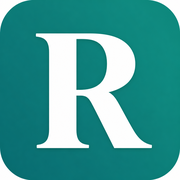
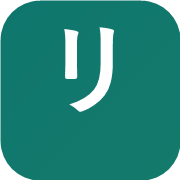
Change the Recall mark from R to katakana ri.

Changed region(s): [[0.1944, 0.1389, 0.8611, 0.8333], [0.0, 0.0, 1.0, 1.0], [0.8333, 0.8333, 1.0, 1.0]]

diff --git a/index.html b/index.html
@@ -8,15 +8,16 @@
   <meta name="apple-mobile-web-app-title" content="Recall" />
   <meta name="apple-mobile-web-app-capable" content="yes" />
   <title>Recall — Spaced Repetition Flashcards</title>
-  <link rel="icon" href="favicon.svg?v=20261019-week-sets" type="image/svg+xml" />
-  <link rel="icon" href="favicon.ico?v=20261019-week-sets" sizes="any" />
-  <link rel="icon" href="icons/favicon-32.png?v=20261019-week-sets" type="image/png" sizes="32x32" />
-  <link rel="apple-touch-icon" href="icons/apple-touch-icon.png?v=20261019-week-sets" />
+  <link rel="icon" href="favicon.svg?v=20261019-ri-mark" type="image/svg+xml" />
+  <link rel="icon" href="favicon.ico?v=20261019-ri-mark" sizes="any" />
+  <link rel="icon" href="icons/favicon-32.png?v=20261019-ri-mark" type="image/png" sizes="32x32" />
+  <link rel="apple-touch-icon" href="icons/apple-touch-icon.png?v=20261019-ri-mark" />
   <link rel="manifest" href="site.webmanifest" />
   <link rel="preconnect" href="https://fonts.googleapis.com" />
   <link rel="preconnect" href="https://fonts.gstatic.com" crossorigin />
   <link href="https://fonts.googleapis.com/css2?family=Fraunces:opsz,wght@9..144,500;9..144,700&family=Nunito:wght@400;600;700&display=swap" rel="stylesheet" />
-  <link rel="stylesheet" href="css/styles.css?v=20261019-week-sets" />
+  <link href="https://fonts.googleapis.com/css2?family=Noto+Sans+JP:wght@700&text=%E3%83%AA&display=swap" rel="stylesheet" />
+  <link rel="stylesheet" href="css/styles.css?v=20261019-ri-mark" />
   <script>
     try {
       const raw = localStorage.getItem("recall-flashcards-v1");
@@ -30,7 +31,7 @@
 
   <header class="topbar">
     <button type="button" class="brand" id="btn-home" aria-label="Go to home">
-      <span class="brand-mark">R</span>
+      <span class="brand-mark">リ</span>
       <span class="brand-name">Recall</span>
     </button>
     <div class="topbar-end">
@@ -45,11 +46,11 @@
 
   <div id="toast" class="toast" hidden role="status" aria-live="polite"></div>
 
-  <script src="js/builtin-sets.js?v=20261019-week-sets"></script>
-  <script src="js/storage.js?v=20261019-week-sets"></script>
-  <script src="js/spaced.js?v=20261019-week-sets"></script>
-  <script src="js/import.js?v=20261019-week-sets"></script>
-  <script src="js/quiz.js?v=20261019-week-sets"></script>
-  <script src="js/app.js?v=20261019-week-sets"></script>
+  <script src="js/builtin-sets.js?v=20261019-ri-mark"></script>
+  <script src="js/storage.js?v=20261019-ri-mark"></script>
+  <script src="js/spaced.js?v=20261019-ri-mark"></script>
+  <script src="js/import.js?v=20261019-ri-mark"></script>
+  <script src="js/quiz.js?v=20261019-ri-mark"></script>
+  <script src="js/app.js?v=20261019-ri-mark"></script>
 </body>
 </html>

diff --git a/css/styles.css b/css/styles.css
@@ -149,8 +149,10 @@ body {
   place-items: center;
   background: linear-gradient(145deg, var(--teal), #147a6b);
   color: white;
-  font-family: var(--font-display);
+  font-family: "Noto Sans JP", "Yu Gothic", "Hiragino Sans", sans-serif;
+  font-size: 1.45rem;
   font-weight: 700;
+  line-height: 1;
   box-shadow: 0 8px 18px rgba(15, 118, 110, 0.28);
 }
 
